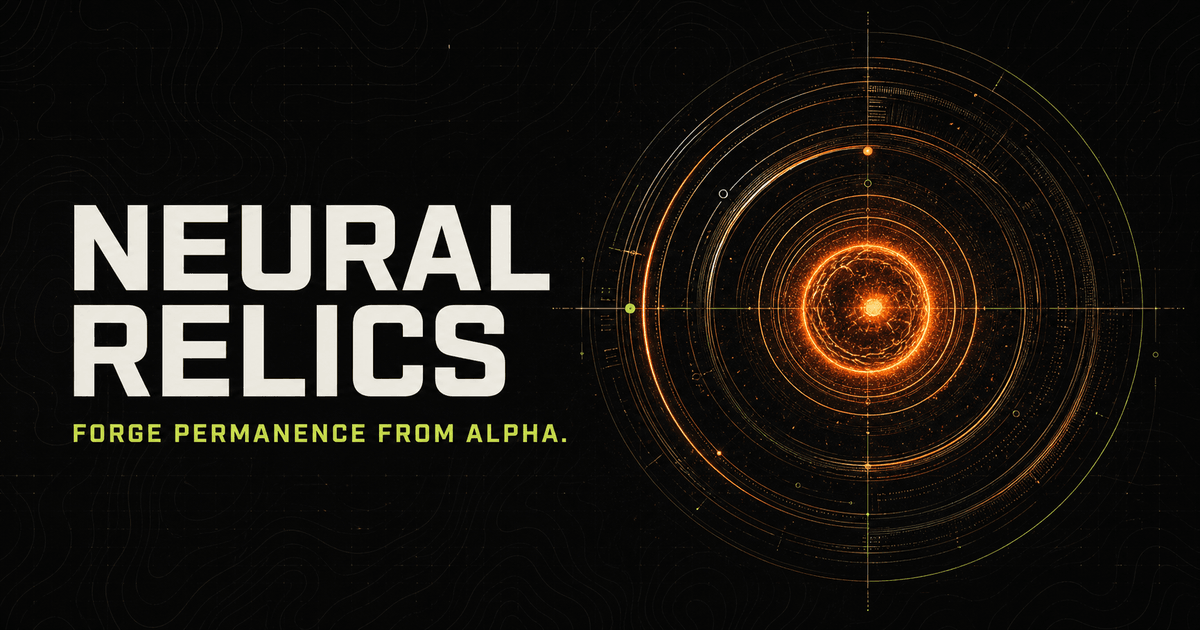
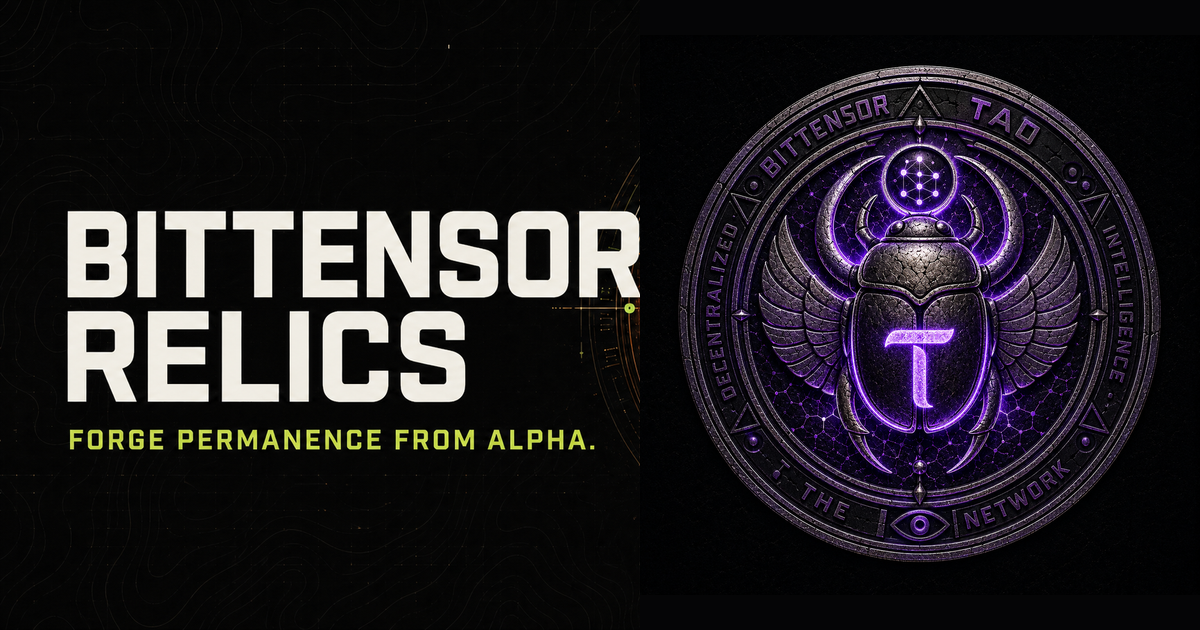
Rename product to Bittensor Relics

Changed region(s): [[0.0308, 0.0905, 0.9867, 0.9349]]

diff --git a/src/components/wallet-workspace.tsx b/src/components/wallet-workspace.tsx
@@ -9,7 +9,7 @@ import { assertExpectedGenesis } from "@/lib/chain-guard";
 import { createTransferEvidence, type TransferEvidence } from "@/lib/transfer-evidence";
 import { verifyFinalizedTransferReceipt } from "@/lib/transfer-receipt";
 
-const APP_NAME = "Neural Relics";
+const APP_NAME = "Bittensor Relics";
 const TESTNET_RPC = process.env.NEXT_PUBLIC_SUBTENSOR_RPC ?? "wss://test.chain.opentensor.ai";
[1 lines of base64/hex data omitted]
 
@@ -194,12 +194,12 @@ export function WalletWorkspace() {
 
   return (
     <section className="wallet-workspace">
-      {!account ? <div className="wallet-gate"><span>SS58 ownership</span><h2>Your wallet is your account.</h2><p>Connect TAOStats Wallet to read finalized relics owned by that AccountId32. Neural Relics never receives a seed phrase.</p><button type="button" onClick={connect} disabled={state === "connecting"}>{state === "connecting" ? "Opening wallet..." : "Connect TAOStats Wallet"}</button>{message && <p className="error-message" role="alert">{message}</p>}</div>
+      {!account ? <div className="wallet-gate"><span>SS58 ownership</span><h2>Your wallet is your account.</h2><p>Connect TAOStats Wallet to read finalized relics owned by that AccountId32. Bittensor Relics never receives a seed phrase.</p><button type="button" onClick={connect} disabled={state === "connecting"}>{state === "connecting" ? "Opening wallet..." : "Connect TAOStats Wallet"}</button>{message && <p className="error-message" role="alert">{message}</p>}</div>
       : <><header><div><span>Connected owner</span><select aria-label="Connected wallet account" value={account.address} onChange={(event) => { const next = walletAccounts.find((item) => item.address === event.target.value); if (!next) return; setAccount(next); setRelics([]); setSelected(null); setReview(null); setTransferEvidence(null); setDestination(""); setTransferState("idle"); setState("connecting"); void loadCollection(next.address).catch((error) => { setState("error"); setMessage(error instanceof Error ? error.message : "The collection could not be loaded."); }); }}>{walletAccounts.map((item) => <option key={item.address} value={item.address}>{item.name} · {compact(item.address)}</option>)}</select><p>{compact(account.address)}</p></div><button type="button" disabled={transferState === "signing" || transferState === "submitted"} onClick={() => { collectionRequest.current += 1; setAccount(null); setWalletAccounts([]); setRelics([]); setState("idle"); setSelected(null); setTransferEvidence(null); }}>Disconnect</button></header>
         {state === "offline" || state === "error" ? <div className="wallet-notice" role="status"><strong>{state === "offline" ? "Indexer gate" : "Wallet error"}</strong><p>{message}</p></div>
-        : state === "ready" && !relics.length ? <div className="wallet-notice"><strong>No finalized relics</strong><p>This address does not currently own a Neural Relic in indexed testnet state.</p><Link href="/#forge">Open the testnet forge</Link></div>
+        : state === "ready" && !relics.length ? <div className="wallet-notice"><strong>No finalized relics</strong><p>This address does not currently own a Bittensor Relic in indexed testnet state.</p><Link href="/#forge">Open the testnet forge</Link></div>
         : <div className="owned-layout"><div className="owned-list"><div><span>Finalized collection</span><strong>{relics.length} owned</strong></div>{relics.map((relic) => <button type="button" key={relic.artifactId} className={selected?.artifactId === relic.artifactId ? "active" : ""} onClick={() => { setSelected(relic); setReview(null); setTransferEvidence(null); setTransferState("idle"); setMessage(""); }}><span>Relic #{relic.globalNumber} · SN{relic.netuid}</span><strong>{relic.name}</strong><small>Ownership nonce {relic.ownershipNonce}</small></button>)}</div>
-          <div className="transfer-console">{selected ? <><span>Canonical transfer</span><h2>{selected.name}</h2><p>This changes Neural Relics protocol ownership after finalization. It does not move TAO or alpha.</p><label><span>Destination SS58 address</span><input value={destination} onChange={(event) => { setDestination(event.target.value); setReview(null); setTransferEvidence(null); setTransferState("idle"); }} placeholder="5..." /></label>{review && <div className="transfer-review"><div><span>Next nonce</span><strong>{review.nextNonce}</strong></div><div><span>Destination</span><strong>{compact(review.destination)}</strong></div><div><span>Estimated fee</span><strong>{formatRao(review.estimatedFeeRao)} TAO</strong></div><div><span>Payload</span><strong>{review.payloadBytes} bytes</strong></div></div>}{message && <p className={transferState === "finalized" ? "listing-success" : "error-message"} role="status">{message}</p>}{transferEvidence && <div className="transfer-evidence"><div><span>Transfer ID</span><strong>{transferEvidence.transferId}</strong></div><div><span>Finalized block</span><strong>#{transferEvidence.blockNumber} / {transferEvidence.extrinsicIndex}</strong></div><div><span>Actual fee</span><strong>{formatRao(transferEvidence.transactionFeeRao)} TAO</strong></div><button type="button" onClick={downloadTransferEvidence}>Download finalized proof</button></div>}{transferState === "review" ? <button type="button" className="transfer-button danger" onClick={signTransfer}>Sign irreversible transfer</button> : <button type="button" className="transfer-button" onClick={reviewTransfer} disabled={!destination || transferState === "signing" || transferState === "submitted" || transferState === "finalized"}>{transferState === "signing" ? "Confirm in TAOStats Wallet" : transferState === "submitted" ? `Finalizing ${compact(transactionHash)}` : transferState === "finalized" ? "Transfer finalized" : "Review transfer"}</button>}<Link href={`/relic/${encodeURIComponent(selected.artifactId)}`}>Inspect full provenance</Link></> : <div className="transfer-empty"><span>Select a relic</span><h2>Ownership actions appear here.</h2><p>Nothing can be signed until you choose one finalized relic.</p></div>}</div></div>}</>}
+          <div className="transfer-console">{selected ? <><span>Canonical transfer</span><h2>{selected.name}</h2><p>This changes Bittensor Relics protocol ownership after finalization. It does not move TAO or alpha.</p><label><span>Destination SS58 address</span><input value={destination} onChange={(event) => { setDestination(event.target.value); setReview(null); setTransferEvidence(null); setTransferState("idle"); }} placeholder="5..." /></label>{review && <div className="transfer-review"><div><span>Next nonce</span><strong>{review.nextNonce}</strong></div><div><span>Destination</span><strong>{compact(review.destination)}</strong></div><div><span>Estimated fee</span><strong>{formatRao(review.estimatedFeeRao)} TAO</strong></div><div><span>Payload</span><strong>{review.payloadBytes} bytes</strong></div></div>}{message && <p className={transferState === "finalized" ? "listing-success" : "error-message"} role="status">{message}</p>}{transferEvidence && <div className="transfer-evidence"><div><span>Transfer ID</span><strong>{transferEvidence.transferId}</strong></div><div><span>Finalized block</span><strong>#{transferEvidence.blockNumber} / {transferEvidence.extrinsicIndex}</strong></div><div><span>Actual fee</span><strong>{formatRao(transferEvidence.transactionFeeRao)} TAO</strong></div><button type="button" onClick={downloadTransferEvidence}>Download finalized proof</button></div>}{transferState === "review" ? <button type="button" className="transfer-button danger" onClick={signTransfer}>Sign irreversible transfer</button> : <button type="button" className="transfer-button" onClick={reviewTransfer} disabled={!destination || transferState === "signing" || transferState === "submitted" || transferState === "finalized"}>{transferState === "signing" ? "Confirm in TAOStats Wallet" : transferState === "submitted" ? `Finalizing ${compact(transactionHash)}` : transferState === "finalized" ? "Transfer finalized" : "Review transfer"}</button>}<Link href={`/relic/${encodeURIComponent(selected.artifactId)}`}>Inspect full provenance</Link></> : <div className="transfer-empty"><span>Select a relic</span><h2>Ownership actions appear here.</h2><p>Nothing can be signed until you choose one finalized relic.</p></div>}</div></div>}</>}
     </section>
   );
 }

diff --git a/src/app/page.tsx b/src/app/page.tsx
@@ -1,5 +1,6 @@
 "use client";
 
+import Image from "next/image";
 import { useEffect, useMemo, useRef, useState } from "react";
 import type { ApiPromise } from "@polkadot/api";
 import { calculateLimitPrice, createInlineMintPayload, DEFAULT_SLIPPAGE_BPS } from "@/lib/protocol";
@@ -8,7 +9,7 @@ import { createMintEvidence, type MintEvidence } from "@/lib/mint-evidence";
 import { assertExpectedGenesis } from "@/lib/chain-guard";
 import { assertMintPreflight } from "@/lib/mint-preflight";
 
-const APP_NAME = "Neural Relics";
+const APP_NAME = "Bittensor Relics";
 const TESTNET_RPC = process.env.NEXT_PUBLIC_SUBTENSOR_RPC ?? "wss://test.chain.opentensor.ai";
[1 lines of base64/hex data omitted]
 const RAO_PER_TAO = 1_000_000_000n;
@@ -464,7 +465,7 @@ export default function Home() {
                 }));
                 setMintState("finalized");
               } catch {
-                setMintError("The finalized chain proof did not exactly match the Neural Relics transaction you signed.");
+                setMintError("The finalized chain proof did not exactly match the Bittensor Relics transaction you signed.");
                 setMintState("error");
               } finally {
                 subscription.unsubscribe?.();
@@ -494,7 +495,7 @@ export default function Home() {
     <main className="site-shell">
       <div className="grain" aria-hidden="true" />
       <nav className="nav" aria-label="Main navigation">
-        <a className="brand" href="#top" aria-label="Neural Relics home"><span className="brand-sigil" aria-hidden="true"><i /></span><span>Neural Relics</span></a>
+        <a className="brand" href="#top" aria-label="Bittensor Relics home"><span className="brand-sigil" aria-hidden="true"><i /></span><span>Bittensor Relics</span></a>
         <div className="nav-links">
           <a href="#forge">Forge</a><a href="/explore">Explore</a><a href="/marketplace">Market</a><a href="/wallet">My Relics</a><a href="#protocol">Protocol</a>
           <span className={`chain-status ${dataState}`}><i aria-hidden="true" />{dataState === "ready" ? `Testnet v${runtimeVersion}` : dataState === "error" ? "RPC unavailable" : "Reading chain"}</span>
@@ -512,7 +513,9 @@ export default function Home() {
 
         <div className="relic-preview" aria-label="Example alpha burn receipt">
           <div className="relic-topline"><span>Relic proof</span><span>Testnet preview</span></div>
-          <div className="relic-orbit" aria-hidden="true"><span className="orbit orbit-one" /><span className="orbit orbit-two" /><span className="orbit-core" /></div>
+          <div className="relic-orbit" aria-hidden="true">
+            <Image className="relic-scarab" src="/relic-scarab.webp" alt="" fill sizes="(max-width: 640px) 255px, 285px" priority />
+          </div>
           <div className="relic-number"><span>Subnet artifact</span><strong>SN{selectedSubnet?.netuid ?? "--"} / #0001</strong></div>
           <div className="receipt-grid"><div><span>TAO committed</span><strong>{taoAmount || "0"} TAO</strong></div><div><span>Alpha destroyed</span><strong>{quote ? formatToken(quote.alphaAmount, 4) : "--"} {selectedSubnet?.symbol}</strong></div></div>
           <p>Burn event + inscription, bound inside one atomic extrinsic.</p>
@@ -586,7 +589,7 @@ export default function Home() {
       </section>
 
       <section className="protocol-section" id="protocol">
-        <div className="section-heading protocol-heading"><div><p className="eyebrow">One signature, three facts</p><h2>The chain proves the sacrifice.</h2></div><p>Neural Relics never pretends metadata lives inside a fungible alpha token. The artifact is derived from public, reproducible chain evidence.</p></div>
+        <div className="section-heading protocol-heading"><div><p className="eyebrow">One signature, three facts</p><h2>The chain proves the sacrifice.</h2></div><p>Bittensor Relics never pretends metadata lives inside a fungible alpha token. The artifact is derived from public, reproducible chain evidence.</p></div>
         <div className="protocol-steps">
           <article><span>01 / Buy</span><h3>TAO enters the selected pool.</h3><p>The native runtime swaps the committed TAO for that subnet&apos;s alpha.</p></article>
           <article><span>02 / Burn</span><h3>The acquired alpha is destroyed.</h3><p>A finalized AlphaBurned event records the exact amount, subnet, and signer.</p></article>
@@ -595,7 +598,7 @@ export default function Home() {
         <div className="protocol-call"><span>Native call path</span><code>batchAll[ addStakeBurn, remarkWithEvent ]</code><em>No EVM. No custody. Finalized testnet only.</em></div>
       </section>
 
-      <footer><a className="brand footer-brand" href="#top"><span className="brand-sigil" aria-hidden="true"><i /></span><span>Neural Relics</span></a><p>Alpha burn artifacts on Subtensor. Testnet research build.</p><a href="https://taostats.io/bittensor-chrome-wallet" target="_blank" rel="noreferrer">TAOStats Wallet -&gt;</a></footer>
+      <footer><a className="brand footer-brand" href="#top"><span className="brand-sigil" aria-hidden="true"><i /></span><span>Bittensor Relics</span></a><p>Alpha burn artifacts on Subtensor. Testnet research build.</p><a href="https://taostats.io/bittensor-chrome-wallet" target="_blank" rel="noreferrer">TAOStats Wallet -&gt;</a></footer>
     </main>
   );
 }

diff --git a/src/app/marketplace/page.tsx b/src/app/marketplace/page.tsx
@@ -18,7 +18,7 @@ export default async function MarketplacePage() {
       <div className="grain" aria-hidden="true" />
       <nav className="nav" aria-label="Main navigation"><SiteMark /><div className="nav-links"><Link href="/#forge">Forge</Link><Link href="/explore">Explore</Link><Link href="/marketplace">Market</Link><Link href="/wallet">My Relics</Link><span className="chain-status"><i aria-hidden="true" />Settlement locked</span></div></nav>
       <section className="collection-hero market-hero"><p className="eyebrow">Signed discovery market</p><h1>Offers without<br />false settlement.</h1><p>Owners can publish wallet-signed asking prices. Purchases stay locked until one chain-enforced action can exchange TAO and ownership without loss.</p></section>
-      <section className="settlement-lock"><strong>Buying is intentionally disabled</strong><p>A listing is an authenticated offer, not an escrow. Neural Relics will not ask buyers to send TAO based on an indexer promise.</p></section>
+      <section className="settlement-lock"><strong>Buying is intentionally disabled</strong><p>A listing is an authenticated offer, not an escrow. Bittensor Relics will not ask buyers to send TAO based on an indexer promise.</p></section>
       {unavailable ? <section className="indexer-empty"><span>Indexer gate</span><h2>The discovery market is not online yet.</h2><p>Listings require the finalized ownership database.</p><Link href="/explore">View collection status</Link></section>
       : listings.length ? <section className="listing-grid">{listings.map((listing) => <article key={listing.listingId}><span>Signed listing</span><h2>{formatRao(listing.priceRao)} TAO</h2><p>{listing.artifactId}</p><dl><div><dt>Ownership nonce</dt><dd>{listing.ownershipNonce}</dd></div><div><dt>Expires</dt><dd>Block #{listing.expiryBlock}</dd></div></dl><Link href={`/relic/${listing.artifactId}`}>Inspect chain proof</Link><button type="button" disabled>Purchase locked</button></article>)}</section>
       : <section className="indexer-empty"><span>Discovery market</span><h2>No active signed listings.</h2><p>The current owner can publish an asking price from a relic&apos;s proof page.</p><Link href="/explore">Explore finalized relics</Link></section>}

diff --git a/src/lib/indexer-db.ts b/src/lib/indexer-db.ts
@@ -6,7 +6,7 @@ const DEFAULT_LIMIT = 24;
 const MAX_LIMIT = 100;
 
 export class IndexerUnavailableError extends Error {
-  constructor(message = "The Neural Relics indexer is not configured.") {
+  constructor(message = "The Bittensor Relics indexer is not configured.") {
     super(message);
     this.name = "IndexerUnavailableError";
   }
@@ -65,7 +65,7 @@ type ArtifactRow = {
 };
 
 declare global {
-  var neuralRelicsPool: pg.Pool | undefined;
+  var bittensorRelicsPool: pg.Pool | undefined;
 }
 
 function databaseUrl() {
@@ -75,9 +75,9 @@ function databaseUrl() {
 }
 
 function pool() {
-  if (!globalThis.neuralRelicsPool) {
+  if (!globalThis.bittensorRelicsPool) {
     const connectionString = databaseUrl();
-    globalThis.neuralRelicsPool = new pg.Pool({
+    globalThis.bittensorRelicsPool = new pg.Pool({
       connectionString,
       ssl: connectionString.includes("localhost") ? false : { rejectUnauthorized: false },
       max: 3,
@@ -85,7 +85,7 @@ function pool() {
       idleTimeoutMillis: 20_000,
     });
   }
-  return globalThis.neuralRelicsPool;
+  return globalThis.bittensorRelicsPool;
 }
 
[1 lines of base64/hex data omitted]
@@ -248,7 +248,7 @@ export async function getRejection(blockNumber: string, extrinsicIndex: number) 
 }
 
 export async function getOperation(blockNumber: string, extrinsicIndex: number) {
[2 lines of base64/hex data omitted]
   const [accepted, rejected] = await Promise.all([
     getArtifact(artifactId),
     getRejection(blockNumber, extrinsicIndex),

diff --git a/src/app/globals.css b/src/app/globals.css
@@ -77,12 +77,8 @@ h1 span { display: block; color: var(--ember-bright); font-style: italic; }
 .relic-preview::after { content: ""; position: absolute; inset: 8px; pointer-events: none; border: 1px solid rgba(255,255,255,.035); }
 .relic-topline { display: flex; justify-content: space-between; color: var(--dim); font: 9px var(--font-geist-mono), monospace; letter-spacing: .1em; text-transform: uppercase; }
 .relic-topline span:last-child { color: var(--ember); }
-.relic-orbit { height: 285px; display: grid; place-items: center; position: relative; }
-.orbit, .orbit-core { position: absolute; border-radius: 50%; }
-.orbit-one { width: 210px; height: 210px; border: 1px solid rgba(255,177,74,.25); box-shadow: inset 0 0 45px rgba(255,177,74,.04); }
-.orbit-two { width: 136px; height: 136px; border: 1px dashed rgba(200,245,107,.24); transform: rotate(18deg); }
-.orbit-two::after { content: ""; width: 7px; height: 7px; position: absolute; top: 19px; right: 17px; border-radius: 50%; background: var(--acid); box-shadow: 0 0 14px var(--acid); }
-.orbit-core { width: 58px; height: 58px; border: 1px solid rgba(255,177,74,.7); background: radial-gradient(circle, rgba(255,177,74,.42), rgba(255,177,74,.03) 58%, transparent 60%); box-shadow: 0 0 45px rgba(255,177,74,.17); }
+.relic-orbit { height: 285px; position: relative; }
+.relic-scarab { object-fit: contain; filter: drop-shadow(0 0 28px rgba(161, 73, 255, .24)); }
 .relic-number { display: flex; justify-content: space-between; align-items: flex-end; padding-bottom: 14px; border-bottom: 1px solid var(--line); }
 .relic-number span, .receipt-grid span { color: var(--dim); font: 9px var(--font-geist-mono), monospace; text-transform: uppercase; letter-spacing: .08em; }
 .relic-number strong { color: var(--ember-bright); font: 14px var(--font-geist-mono), monospace; }

diff --git a/src/lib/mint-evidence.ts b/src/lib/mint-evidence.ts
@@ -1,5 +1,5 @@
 export type MintEvidence = {
-  protocol: "neural-relics";
+  protocol: "bittensor-relics";
   protocolVersion: 1;
   network: "testnet";
   artifactId: string;
@@ -41,7 +41,7 @@ export function createMintEvidence(input: MintEvidenceInput): MintEvidence {
     throw new Error("INVALID_CHAIN_POSITION");
   }
   return {
-    protocol: "neural-relics",
+    protocol: "bittensor-relics",
     protocolVersion: 1,
     network: "testnet",
     ...input,
@@ -49,7 +49,7 @@ export function createMintEvidence(input: MintEvidenceInput): MintEvidence {
     blockHash,
     extrinsicHash,
     payloadHash: input.payloadHash.toLowerCase(),
-    artifactId: `nr1:${genesisHash}:${input.blockNumber}:${input.extrinsicIndex}`,
+    artifactId: `br1:${genesisHash}:${input.blockNumber}:${input.extrinsicIndex}`,
   };
 }
 
@@ -68,7 +68,7 @@ export function parseMintEvidenceJson(text: string): MintEvidence {
   const record = parsed as Record<string, unknown>;
   const keys = Object.keys(record).sort();
   if (keys.join("\n") !== [...EVIDENCE_KEYS].sort().join("\n")) throw new Error("INVALID_EVIDENCE_FIELDS");
-  if (record.protocol !== "neural-relics" || record.protocolVersion !== 1 || record.network !== "testnet") {
+  if (record.protocol !== "bittensor-relics" || record.protocolVersion !== 1 || record.network !== "testnet") {
     throw new Error("INVALID_EVIDENCE_PROTOCOL");
   }
   const decimalFields = [

diff --git a/src/app/layout.tsx b/src/app/layout.tsx
@@ -13,13 +13,13 @@ const geistMono = Geist_Mono({
 });
 
 export const metadata: Metadata = {
-  metadataBase: new URL("https://taoscriptions.vercel.app"),
-  title: "Neural Relics — Alpha Burn Artifacts on Bittensor",
+  metadataBase: new URL("https://bittensor-relics.vercel.app"),
+  title: "Bittensor Relics — Alpha Burn Artifacts on Bittensor",
   description:
     "Forge numbered digital artifacts by atomically buying and burning subnet alpha on Bittensor.",
-  applicationName: "Neural Relics",
+  applicationName: "Bittensor Relics",
   openGraph: {
-    title: "Neural Relics",
+    title: "Bittensor Relics",
     description: "Forge permanence from alpha on Bittensor.",
     type: "website",
     images: [
@@ -27,13 +27,13 @@ export const metadata: Metadata = {
         url: "/og-social.png",
         width: 1200,
         height: 630,
-        alt: "Neural Relics — Forge permanence from alpha.",
+        alt: "Bittensor Relics — Forge permanence from alpha.",
       },
     ],
   },
   twitter: {
     card: "summary_large_image",
-    title: "Neural Relics",
+    title: "Bittensor Relics",
     description: "Forge permanence from alpha on Bittensor.",
     images: ["/og-social.png"],
   },

diff --git a/src/lib/transfer-evidence.ts b/src/lib/transfer-evidence.ts
@@ -1,5 +1,5 @@
 export type TransferEvidence = {
-  protocol: "neural-relics"; protocolVersion: 1; operation: "transfer"; network: "testnet";
+  protocol: "bittensor-relics"; protocolVersion: 1; operation: "transfer"; network: "testnet";
   transferId: string; artifactId: string; genesisHash: string; runtimeSpec: string;
   blockNumber: string; blockHash: string; extrinsicIndex: number; extrinsicHash: string;
   fromAddress: string; fromAccountHex: string; toAccountHex: string; ownershipNonce: number;
@@ -20,7 +20,7 @@ export function createTransferEvidence(input: Input): TransferEvidence {
     throw new Error("INVALID_CHAIN_POSITION");
   }
   return {
-    protocol: "neural-relics", protocolVersion: 1, operation: "transfer", network: "testnet",
+    protocol: "bittensor-relics", protocolVersion: 1, operation: "transfer", network: "testnet",
     ...input, genesisHash, blockHash, extrinsicHash, payloadHash: input.payloadHash.toLowerCase(),
     transferId: `nrt1:${genesisHash}:${input.blockNumber}:${input.extrinsicIndex}`,
   };

diff --git a/src/app/relic/[id]/page.tsx b/src/app/relic/[id]/page.tsx
@@ -13,12 +13,12 @@ type Props = { params: Promise<{ id: string }> };
 
 export async function generateMetadata({ params }: Props): Promise<Metadata> {
   const { id } = await params;
-  return { title: `${compactHex(id, 18, 8)} — Neural Relics` };
+  return { title: `${compactHex(id, 18, 8)} — Bittensor Relics` };
 }
 
 export default async function RelicPage({ params }: Props) {
   const { id } = await params;
-  if (!/^nr1:0x[0-9a-f]{64}:\d+:\d+$/.test(id)) notFound();
+  if (!/^br1:0x[0-9a-f]{64}:\d+:\d+$/.test(id)) notFound();
   let artifact: Awaited<ReturnType<typeof getArtifact>> = null;
   let transfers: Awaited<ReturnType<typeof listArtifactTransfers>> = [];
   let listings: Awaited<ReturnType<typeof listActiveListings>> = [];

diff --git a/src/components/relic-listings.tsx b/src/components/relic-listings.tsx
@@ -21,7 +21,7 @@ export function RelicListings({ initialListings, ownerAccountHex, chainGenesis }
       const [{ web3Accounts, web3Enable, web3FromSource }, { stringToHex }, { normalizeAccount }] = await Promise.all([
         import("@polkadot/extension-dapp"), import("@polkadot/util"), import("@/lib/listing-protocol.mjs"),
       ]);
-      const extensions = await web3Enable("Neural Relics");
+      const extensions = await web3Enable("Bittensor Relics");
       if (!extensions.length) throw new Error("Unlock TAOStats Wallet, then try again.");
       const accounts = await web3Accounts();
       const account = accounts.find((candidate) => {

diff --git a/src/app/explore/page.tsx b/src/app/explore/page.tsx
@@ -41,7 +41,7 @@ export default async function ExplorePage({
         </section>
       ) : result && result.artifacts.length > 0 ? (
         <>
-          <section className="artifact-grid" aria-label="Finalized Neural Relics">
+          <section className="artifact-grid" aria-label="Finalized Bittensor Relics">
             {result.artifacts.map((artifact) => <RelicCard key={artifact.artifactId} artifact={artifact} />)}
           </section>
           {result.nextCursor && <div className="pagination"><Link href={`/explore?cursor=${result.nextCursor}`}>Load earlier relics <span aria-hidden="true">-&gt;</span></Link></div>}

diff --git a/src/lib/protocol.ts b/src/lib/protocol.ts
@@ -1,4 +1,4 @@
-export const PROTOCOL_ID = "neural-relics";
+export const PROTOCOL_ID = "bittensor-relics";
 export const PROTOCOL_VERSION = 1;
 export const MAX_REMARK_BYTES = 2_048;
 export const DEFAULT_SLIPPAGE_BPS = 200n;
@@ -66,7 +66,7 @@ export function createTransferPayload(input: {
   destinationAccountHex: string;
   ownershipNonce: number;
 }) {
-  if (!/^nr1:0x[0-9a-f]{64}:\d+:\d+$/.test(input.artifactId)) {
+  if (!/^br1:0x[0-9a-f]{64}:\d+:\d+$/.test(input.artifactId)) {
     throw new Error("The relic ID is not canonical.");
   }
   if (!/^0x[0-9a-f]{64}$/.test(input.destinationAccountHex)) {
